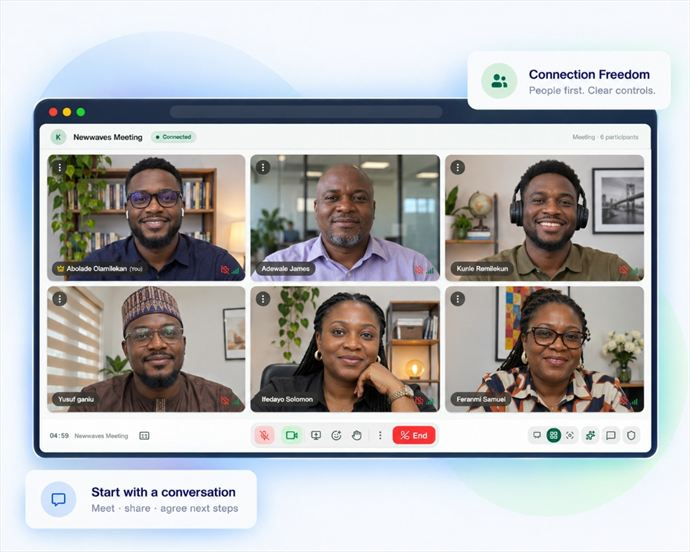
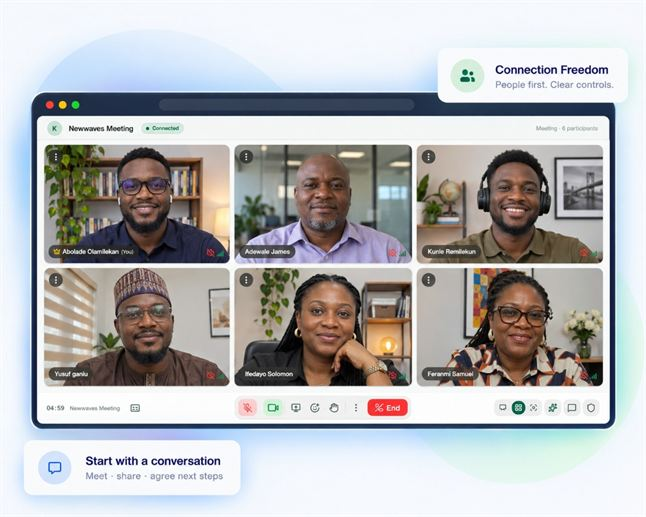
Add valid ARD v0.91 manifest (.well-known/ard.json), preload LCP hero image, and code-split secondary routes

diff --git a/src/App.jsx b/src/App.jsx
@@ -1,4 +1,4 @@
-import React, { useEffect, useState } from 'react'
+import React, { Suspense, lazy, useEffect, useState } from 'react'
 import { Link, Navigate, Route, Routes, useLocation, useNavigate } from 'react-router-dom'
 import Header from './components/Header'
 import Hero from './components/Hero'
@@ -25,14 +25,6 @@ import {
   routePaths,
   sectorProposals,
 } from './data/metadata'
-import ContactSales from './pages/ContactSales'
-import CustomerSupport from './pages/CustomerSupport'
-import Pricing from './pages/Pricing'
-import PrivacyPolicy from './pages/PrivacyPolicy'
-import TermsOfService from './pages/TermsOfService'
-import Events from './pages/Events'
-import EventDetails from './pages/EventDetails'
-import Trust from './pages/Trust'
 import { captureUtmParameters } from './services/leadService'
 import { trackPageView } from './analytics/events'
 import solGovernmentImg from './assets/solutions/government.png'
@@ -42,6 +34,15 @@ import solFaithImg from './assets/solutions/faith.png'
 import solBusinessImg from './assets/solutions/business.png'
 import solEventsImg from './assets/solutions/events.png'
 import workflowHomeImg from './assets/workflow/workflow-home.png'
+
+const ContactSales = lazy(() => import('./pages/ContactSales'))
+const CustomerSupport = lazy(() => import('./pages/CustomerSupport'))
+const Pricing = lazy(() => import('./pages/Pricing'))
+const PrivacyPolicy = lazy(() => import('./pages/PrivacyPolicy'))
+const TermsOfService = lazy(() => import('./pages/TermsOfService'))
+const Events = lazy(() => import('./pages/Events'))
+const EventDetails = lazy(() => import('./pages/EventDetails'))
+const Trust = lazy(() => import('./pages/Trust'))
 
 const SOLUTION_CARD_MEDIA = {
   government: { image: solGovernmentImg, theme: 'navy' },
@@ -900,6 +901,7 @@ function SiteShell() {
   return (
     <div className="min-h-screen bg-white text-brand-ink">
       <Header onToast={showToast} onAction={handleAction} />
+      <Suspense fallback={null}>
       <Routes>
         <Route
           path="/"
@@ -980,6 +982,7 @@ function SiteShell() {
         />
         <Route path="*" element={<Navigate to="/" replace />} />
       </Routes>
+      </Suspense>
 
       <Konn3ctModal
         action={modalAction}

diff --git a/src/components/MediaPlaceholder.jsx b/src/components/MediaPlaceholder.jsx
@@ -1,5 +1,4 @@
 import React from 'react'
-import homeShowcase from '../assets/showcase/Konn3ct meeting screen showcase.png'
 import governmentShowcase from '../assets/showcase/Konn3ct shared presentation interface.png'
 import associationsShowcase from '../assets/showcase/Konn3ct meeting interface with clean captions.png'
 import educationShowcase from '../assets/showcase/Connected learning in action.png'
@@ -9,7 +8,7 @@ import eventsShowcase from '../assets/showcase/Konn3ct community event session.p
 
 const SHOWCASE_BY_VARIANT = {
   home: {
-    src: homeShowcase,
+    src: '/hero-home.jpg',
     alt: 'Konn3ct meeting screen showcase',
   },
   government: {
@@ -59,8 +58,8 @@ export default function MediaPlaceholder({ variant = 'home', type, label }) {
         src={showcase.src}
         alt={label || showcase.alt}
         className="hero-showcase-img"
-        width="690"
-        height="552"
+        width="646"
+        height="517"
         decoding="async"
       />
     </div>

diff --git a/public/index.html b/public/index.html
@@ -11,6 +11,7 @@
     <meta property="og:description" content="Bring your people together for meetings, learning and collaboration with Konn3ct." />
     <link rel="icon" href="%PUBLIC_URL%/favicon.ico" />
     <link rel="shortcut icon" href="%PUBLIC_URL%/favicon.ico" />
+    <link rel="preload" as="image" href="%PUBLIC_URL%/hero-home.jpg" fetchpriority="high" />
     <link rel="preconnect" href="https://fonts.googleapis.com" />
     <link rel="preconnect" href="https://fonts.gstatic.com" crossorigin />
     <link
